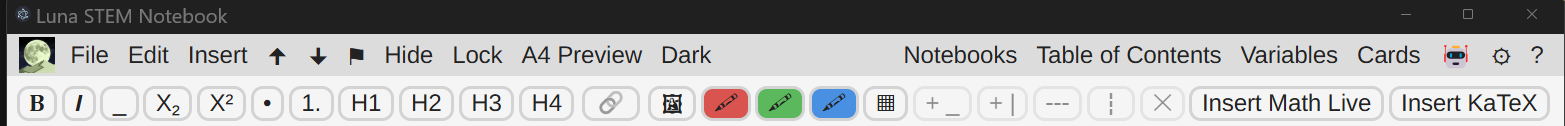
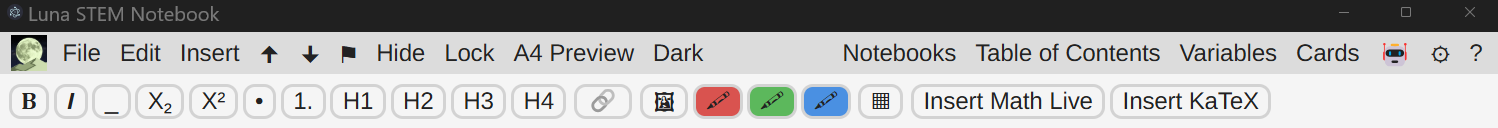
Added basic link support. Failed to get Ctrl+Click working—plain clicks still open the browser, which is irritating. Modifier‑click + tooltip postponed.
Added `.button-row-flex-wrap-base-inline` (with `--active`) to wrap small pop‑up editor groups (e.g. the link URL input) so they shrink to content and get a clear mode border without layout jank. Full‑width rows now use a transparent 2px border (`.button-row-flex-wrap-base--transparent-border`) so activating a cluster just swaps the border color—no shift.

Reused the same pattern for the table controls: the Insert Table button now lives in a cluster that, when the caret is inside a table, activates (border) and reveals row / column / delete buttons; when outside, only the insert button is shown. This pattern will scale for future mini editors (color picker, math, etc.).

diff --git a/src/renderer/src/components/toolbars/TextCellToolbar.vue b/src/renderer/src/components/toolbars/TextCellToolbar.vue
@@ -268,96 +268,91 @@
       @click="toggleHighlight('blue-highlighting')"
     ></button>
 
-    <!-- Table controls with disabled states -->
-
-    <button
-      class="top-toolbar__button top-toolbar__button--icon icon-table top-toolbar__button--transparent-when-disabled"
-      type="button"
-      title="Insert 3x3 table"
-      aria-label="Insert table"
-      :disabled="!activeTextEditor || isCellLockedComputed || isCellHiddenComputed"
-      @click="insertTable"
-    ></button>
-    <button
-      :class="[
-        'top-toolbar__button',
-        'top-toolbar__button--icon',
-        'top-toolbar__button--transparent-when-disabled',
-        { 'top-toolbar__button--disabled': !isTableActive },
-        'icon-insert-table-row-below'
-      ]"
-      type="button"
-      title="Add row after"
-      aria-label="Add row"
-      :disabled="
-        !activeTextEditor || !isTableActive || isCellLockedComputed || isCellHiddenComputed
-      "
-      @click="addRow"
-    ></button>
-    <button
-      :class="[
-        'top-toolbar__button',
-        'top-toolbar__button--icon',
-        'top-toolbar__button--transparent-when-disabled',
-        { 'top-toolbar__button--disabled': !isTableActive },
-        'icon-insert-table-column-right'
-      ]"
-      type="button"
-      title="Add column after"
-      aria-label="Add column"
-      :disabled="
-        !activeTextEditor || !isTableActive || isCellLockedComputed || isCellHiddenComputed
-      "
-      @click="addColumn"
-    ></button>
-    <button
-      :class="[
-        'top-toolbar__button',
-        'top-toolbar__button--icon',
-        'top-toolbar__button--transparent-when-disabled',
-        { 'top-toolbar__button--disabled': !isTableActive },
-        'icon-delete-table-row'
-      ]"
-      type="button"
-      title="Delete row"
-      aria-label="Delete row"
-      :disabled="
-        !activeTextEditor || !isTableActive || isCellLockedComputed || isCellHiddenComputed
-      "
-      @click="deleteRow"
-    ></button>
-    <button
-      :class="[
-        'top-toolbar__button',
-        'top-toolbar__button--icon',
-        'top-toolbar__button--transparent-when-disabled',
-        { 'top-toolbar__button--disabled': !isTableActive },
-        'icon-delete-table-column'
-      ]"
-      type="button"
-      title="Delete column"
-      aria-label="Delete column"
-      :disabled="
-        !activeTextEditor || !isTableActive || isCellLockedComputed || isCellHiddenComputed
-      "
-      @click="deleteColumn"
-    ></button>
-    <button
-      :class="[
-        'top-toolbar__button',
-        'top-toolbar__button--icon',
-        'top-toolbar__button--transparent-when-disabled',
-        { 'top-toolbar__button--disabled': !isTableActive },
-        'icon-delete-table'
-      ]"
-      type="button"
-      title="Delete table"
-      aria-label="Delete table"
-      :disabled="
-        !activeTextEditor || !isTableActive || isCellLockedComputed || isCellHiddenComputed
-      "
-      @click="deleteTable"
-    ></button>
+    <!-- Table controls cluster (mirrors link cluster pattern). Shows only insert button when not inside a table; reveals row/column/delete controls and active border when within a table -->
+    <div
+      class="button-row-flex-wrap-base-inline"
+      :class="{
+        'button-row-flex-wrap-base-inline button-row-flex-wrap-base-inline--active': isTableActive
+      }"
+    >
+      <button
+        class="top-toolbar__button top-toolbar__button--icon icon-table top-toolbar__button--transparent-when-disabled"
+        type="button"
+        :class="{ 'top-toolbar__button--active': isTableActive }"
+        title="Insert 3x3 table"
+        aria-label="Insert table"
+        :aria-pressed="isTableActive ? 'true' : 'false'"
+        :disabled="!activeTextEditor || isCellLockedComputed || isCellHiddenComputed"
+        @click="insertTable"
+      ></button>
+      <template v-if="isTableActive">
+        <button
+          :class="[
+            'top-toolbar__button',
+            'top-toolbar__button--icon',
+            'top-toolbar__button--transparent-when-disabled',
+            'icon-insert-table-row-below'
+          ]"
+          type="button"
+          title="Add row after"
+          aria-label="Add row"
+          :disabled="!activeTextEditor || isCellLockedComputed || isCellHiddenComputed"
+          @click="addRow"
+        ></button>
+        <button
+          :class="[
+            'top-toolbar__button',
+            'top-toolbar__button--icon',
+            'top-toolbar__button--transparent-when-disabled',
+            'icon-insert-table-column-right'
+          ]"
+          type="button"
+          title="Add column after"
+          aria-label="Add column"
+          :disabled="!activeTextEditor || isCellLockedComputed || isCellHiddenComputed"
+          @click="addColumn"
+        ></button>
+        <button
+          :class="[
+            'top-toolbar__button',
+            'top-toolbar__button--icon',
+            'top-toolbar__button--transparent-when-disabled',
+            'icon-delete-table-row'
+          ]"
+          type="button"
+          title="Delete row"
+          aria-label="Delete row"
+          :disabled="!activeTextEditor || isCellLockedComputed || isCellHiddenComputed"
+          @click="deleteRow"
+        ></button>
+        <button
+          :class="[
+            'top-toolbar__button',
+            'top-toolbar__button--icon',
+            'top-toolbar__button--transparent-when-disabled',
+            'icon-delete-table-column'
+          ]"
+          type="button"
+          title="Delete column"
+          aria-label="Delete column"
+          :disabled="!activeTextEditor || isCellLockedComputed || isCellHiddenComputed"
+          @click="deleteColumn"
+        ></button>
+        <button
+          :class="[
+            'top-toolbar__button',
+            'top-toolbar__button--icon',
+            'top-toolbar__button--transparent-when-disabled',
+            'icon-delete-table'
+          ]"
+          type="button"
+          title="Delete table"
+          aria-label="Delete table"
+          :disabled="!activeTextEditor || isCellLockedComputed || isCellHiddenComputed"
+          @click="deleteTable"
+        ></button>
+      </template>
+    </div>
 
     <!-- visual separator -->
 

diff --git a/README.md b/README.md
@@ -170,7 +170,11 @@ See also: [THIRD_PARTY_NOTICES.md](./THIRD_PARTY_NOTICES.md) for a consolidated 
 **2024-09-29**
 Added basic link support. Failed to get Ctrl+Click working—plain clicks still open the browser, which is irritating. Modifier‑click + tooltip postponed. 
 
-Added `.button-row-flex-wrap-base-inline` (with `--active`) to wrap small pop‑up editor groups (e.g. the link URL input) so they shrink to content and get a clear mode border without layout jank. Full‑width rows now use a transparent 2px border (`.button-row-flex-wrap-base--transparent-border`) so activating a cluster just swaps the border color without layout jank. This is a pattern we can reuse for future mini editors in the top toolbar (color picker, math, etc.). Screenshots below show the link cluster toggled on and off.
+Added `.button-row-flex-wrap-base-inline` (with `--active`) to wrap small pop‑up editor groups (e.g. the link URL input) so they shrink to content and get a clear mode border without layout jank. Full‑width rows now use a transparent 2px border (`.button-row-flex-wrap-base--transparent-border`) so activating a cluster just swaps the border color—no shift. 
+
+Reused the same pattern for the table controls: the Insert Table button now lives in a cluster that, when the caret is inside a table, activates (border) and reveals row / column / delete buttons; when outside, only the insert button is shown. This pattern will scale for future mini editors (color picker, math, etc.). 
+
+Screenshots below show the link cluster and the insert table cluster toggled on and off.
 <p align="center">
   <img src="./src/development-screenshots/Luna5-2025-09-29-1.png" alt="" width="900" /> 
 </p>
